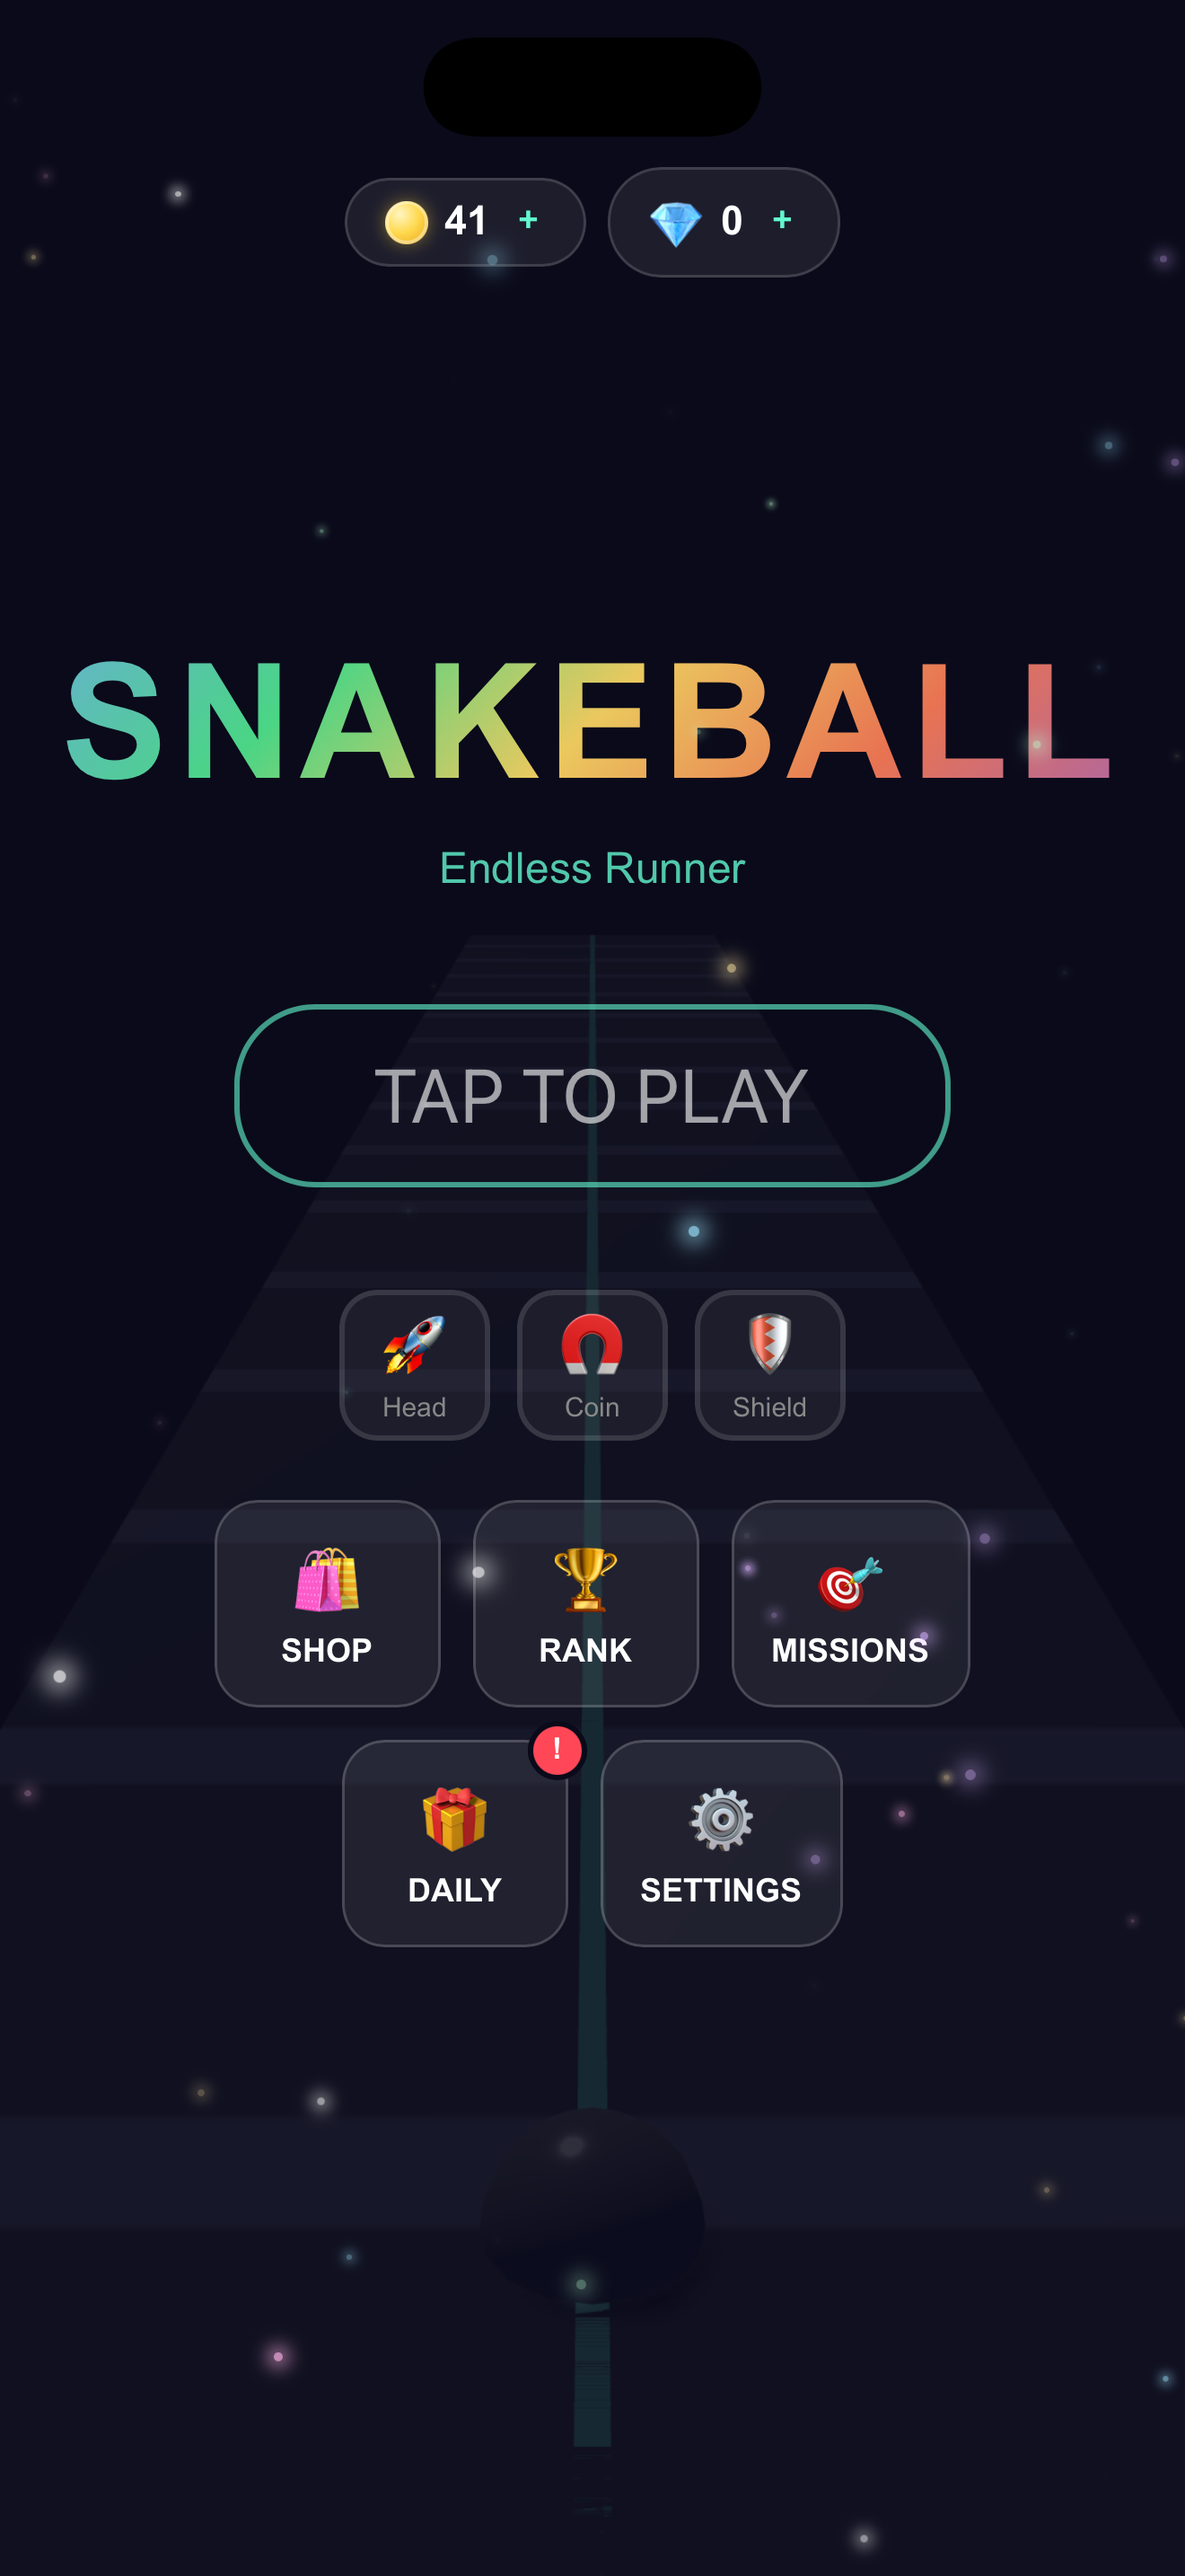
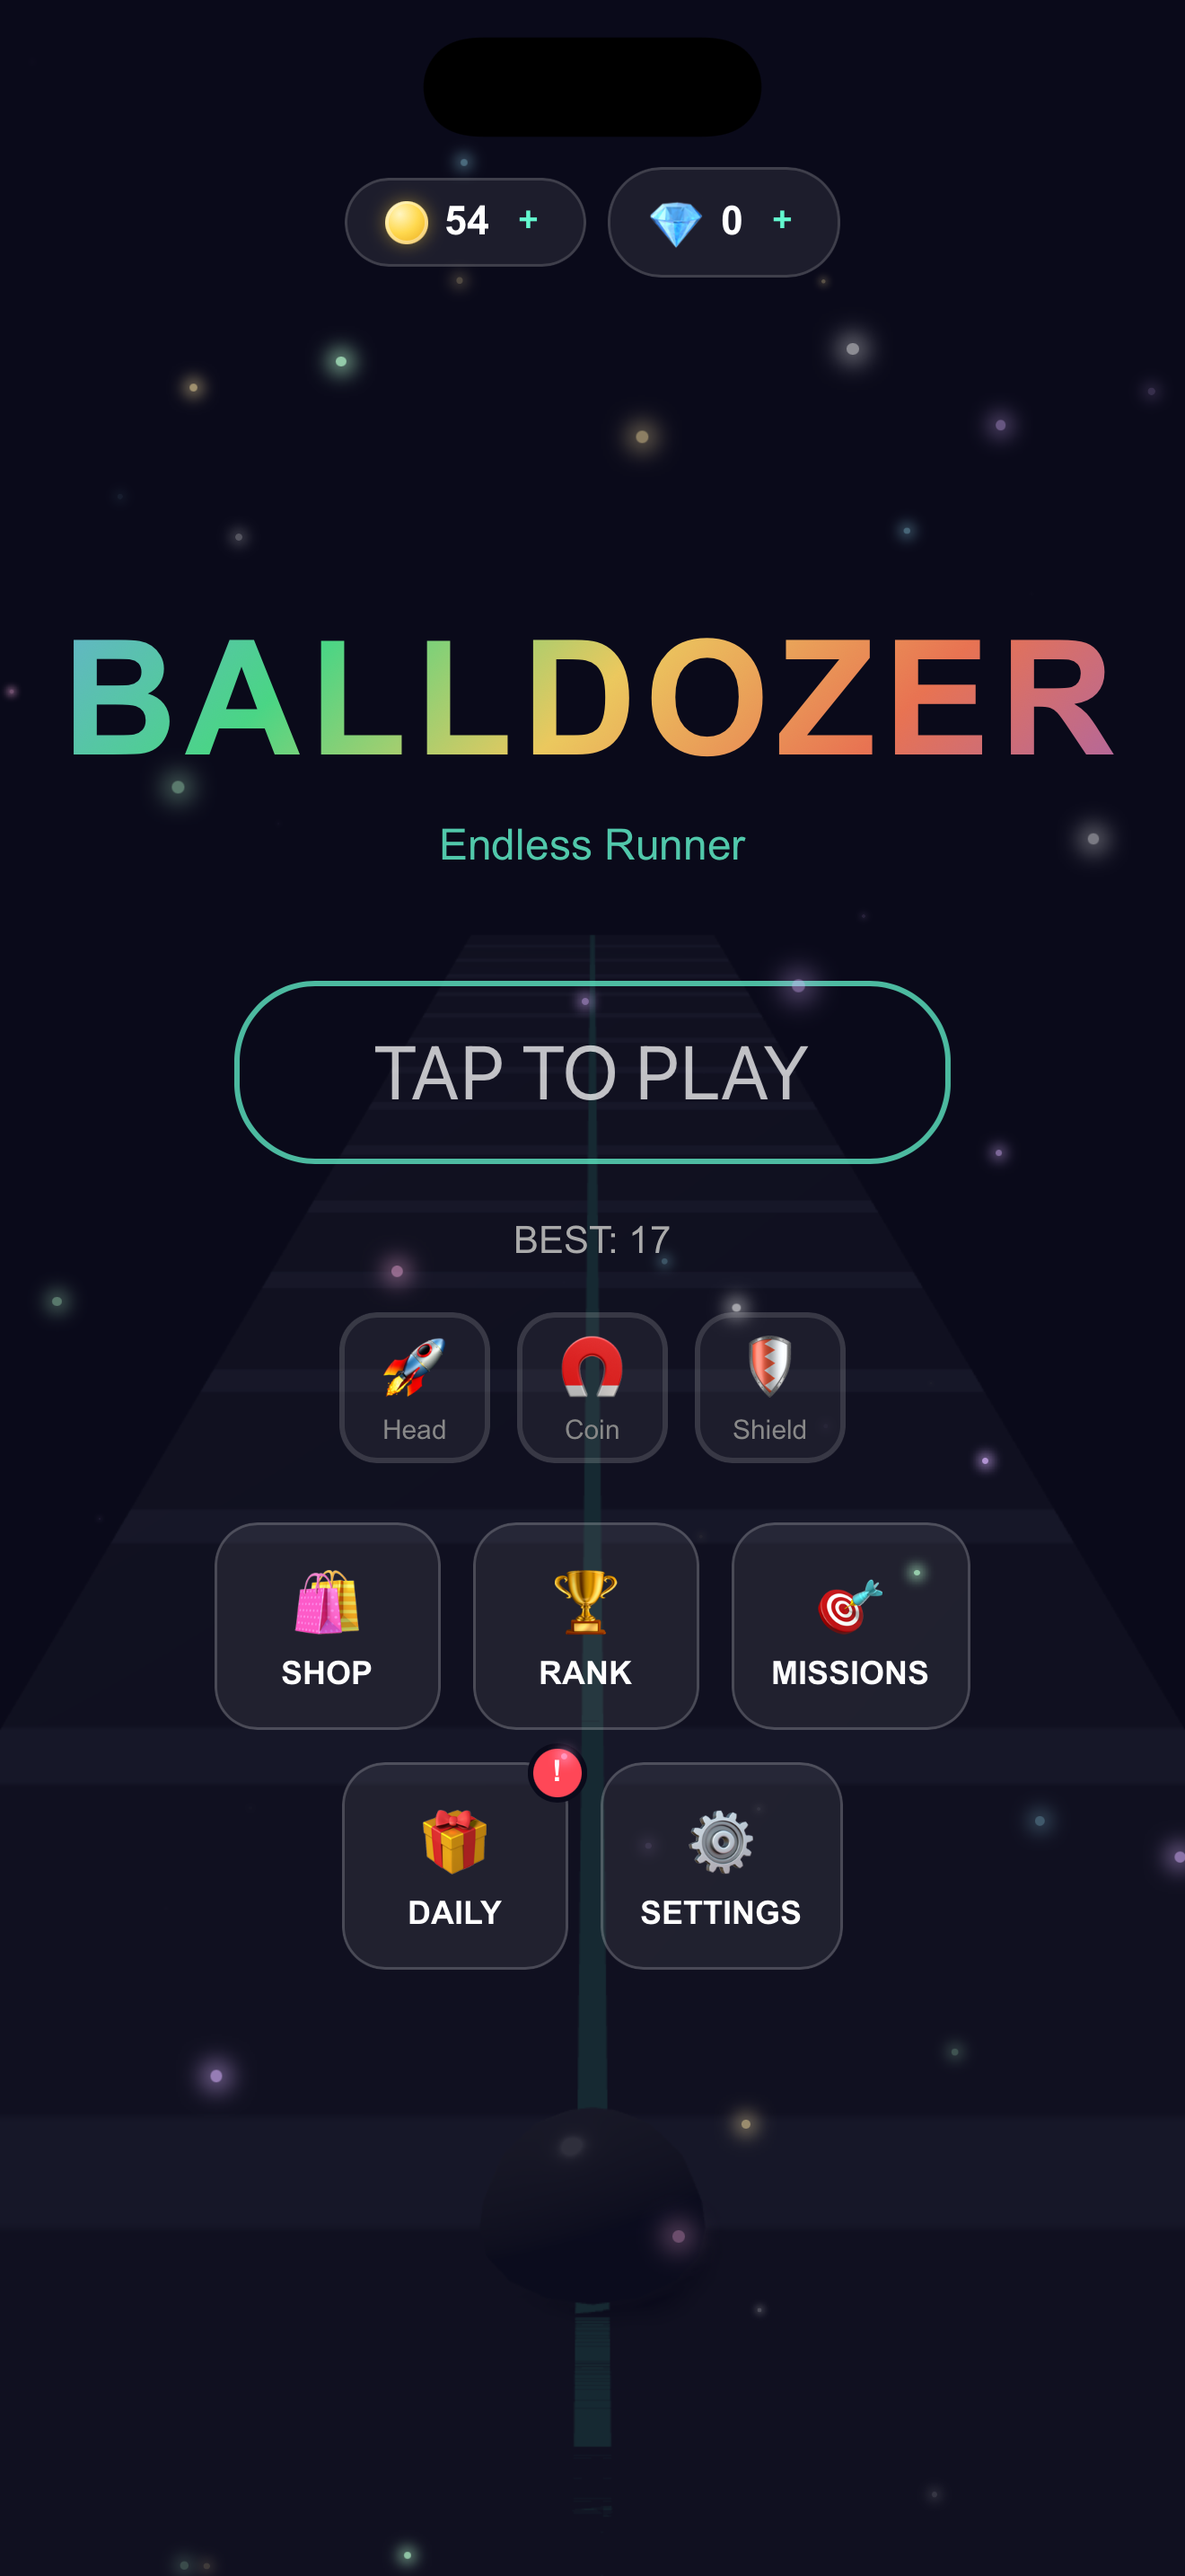
feat: 앱 이름 Snakeball → Balldozer 전면 반영
en Apple Name `Balldozer: Neon Ball Run` 이 App Store Connect 에 저장 확인됐다.
막혔던 원인은 남의 선점이 아니라 **자기 레코드**였다 — ASC 에 `볼도저` 앱 레코드가
Prepare for Submission 으로 이미 있었고 세션 캐시가 남아 자기 이름을 자기가 못 쓰는
상태였다. 완전히 로그아웃 후 재진입하니 통과.

코드 8곳:
  granite.config.ts  appName 'snakeball'→'balldozer' (Toss 슬러그) · displayName '볼도저'
  index.html         <title> · <h1>(메뉴 대문. 9자→9자라 nowrap 레이아웃 영향 없음)
  iOS                Info.plist CFBundleDisplayName/CFBundleName · WebView.swift 메일 제목
  Android            strings.xml app_name
  static/            terms.html · privacy.html 서비스명 10곳

**바꾸지 않은 것**: 번들 ID `studio.hodgepodge.snakeball`, Firebase 프로젝트
`snakeball-game`, 호스팅 URL. 유저에게 안 보이고 번들 ID 는 출시 후 변경 불가다.

스토어 문구 25곳(Snakeball/스네이크볼 전부) + Toss 앱 이름 자수 5→3 정정.
관문 [8] 을 "이름 미확정 경고" 검사에서 **"확정 이름이 9개 로케일에 일관되게 들어갔는지"**
로 교체했다 — 개명에서 가장 흔한 사고가 로케일 하나만 옛 이름으로 남는 것이다.
되돌림 2종(ja Name 만 옛 이름 / zh Play 이름 누락)으로 실제로 걸리는 걸 확인했다.
파서가 스토어 섹션을 기록하게 고쳐 Toss 판별 로직도 단순해졌다.

메뉴 스크린샷은 게임 화면에 이름이 찍히므로 재촬영했다(프로덕션 빌드, 한 판 플레이해
코인 54·BEST 17 상태). 촬영 중 뜬 시뮬레이터 Apple 계정 다이얼로그는 "지금 안 함" 으로
닫았다 — 암호는 입력하지 않았다. 스크린샷 40장 + Play 그래픽 4장 재생성, 규격 검증 통과.

diff --git a/static/privacy.html b/static/privacy.html
@@ -4,7 +4,7 @@
 <meta charset="utf-8">
 <meta name="viewport" content="width=device-width, initial-scale=1">
 <meta name="robots" content="noindex">
-<title>Snakeball — Privacy Policy</title>
+<title>Balldozer — Privacy Policy</title>
 <style>
   :root { color-scheme: dark light; }
   body { margin: 0; background: #0f0f1e; color: #e6e6f0; font-family: -apple-system, BlinkMacSystemFont, "Segoe UI", Roboto, sans-serif; line-height: 1.6; }
@@ -22,10 +22,10 @@
 </head>
 <body>
 <main>
-  <h1>Snakeball — Privacy Policy</h1>
+  <h1>Balldozer — Privacy Policy</h1>
   <p class="updated">Last updated: July 28, 2026</p>
 
-  <p>Snakeball (“the app”, “the game”) is developed and operated by <strong>Hodgepodge Studio</strong>
+  <p>Balldozer (“the app”, “the game”) is developed and operated by <strong>Hodgepodge Studio</strong>
   (“we”, “us”). This policy explains what data the game collects and how it is used. We collect only the
   minimum information needed to run the game. Questions:
   <a href="mailto:support@hodgepodge.studio">support@hodgepodge.studio</a>.</p>
@@ -59,7 +59,7 @@
   </ul>
 
   <h3>Tracking</h3>
-  <p><strong>We do not track you across other companies’ apps or websites.</strong> Snakeball does not
+  <p><strong>We do not track you across other companies’ apps or websites.</strong> Balldozer does not
   request App Tracking Transparency permission and does not use the iOS Advertising Identifier (IDFA); the
   app’s privacy manifest declares <code>NSPrivacyTracking = false</code>. Where ads are shown they are
   non-personalized. Ad and platform providers may still collect device and usage signals under their own
@@ -111,7 +111,7 @@
   <a href="mailto:support@hodgepodge.studio">support@hodgepodge.studio</a>. We respond within 30 days.</p>
 
   <h2>7. Children’s privacy</h2>
-  <p>Snakeball is a casual arcade game suitable for a general audience and is not directed at children under
+  <p>Balldozer is a casual arcade game suitable for a general audience and is not directed at children under
   13. It contains no chat or user-to-user messaging. We do not knowingly collect personally identifiable
   information from children under 13. If you believe a child has provided us with personal data, contact us
   and we will delete it.</p>

diff --git a/static/terms.html b/static/terms.html
@@ -4,7 +4,7 @@
 <meta charset="utf-8">
 <meta name="viewport" content="width=device-width, initial-scale=1">
 <meta name="robots" content="noindex">
-<title>Snakeball — Terms of Service</title>
+<title>Balldozer — Terms of Service</title>
 <style>
   :root { color-scheme: dark light; }
   body { margin: 0; background: #0f0f1e; color: #e6e6f0; font-family: -apple-system, BlinkMacSystemFont, "Segoe UI", Roboto, sans-serif; line-height: 1.6; }
@@ -20,10 +20,10 @@
 </head>
 <body>
 <main>
-  <h1>Snakeball — Terms of Service</h1>
+  <h1>Balldozer — Terms of Service</h1>
   <p class="updated">Last updated: July 28, 2026</p>
 
-  <p>These Terms of Service (“Terms”) govern your use of Snakeball (“the app”, “the game”), provided by
+  <p>These Terms of Service (“Terms”) govern your use of Balldozer (“the app”, “the game”), provided by
   <strong>Hodgepodge Studio</strong> (“we”, “us”). By downloading or playing the game you agree to these
   Terms. Contact: <a href="mailto:support@hodgepodge.studio">support@hodgepodge.studio</a>.</p>
 
@@ -45,7 +45,7 @@
   </ul>
 
   <h2>3. Your account &amp; progress</h2>
-  <p>Snakeball uses an anonymous account created automatically on first launch. Your progress, currencies,
+  <p>Balldozer uses an anonymous account created automatically on first launch. Your progress, currencies,
   and unlocks are stored on our servers and tied to that account.</p>
   <p>Settings → “Recovery Code” issues a code that transfers your account to another device. <strong>Keep it
   private — anyone who has it can claim your account.</strong> We cannot identify you without it, so if you
@@ -86,7 +86,7 @@
   <h2>6. Advertising</h2>
   <p>The game may show optional rewarded video ads (Google AdMob) that grant in-game rewards. Watching them
   is always your choice — the game is fully playable without them. Ad providers may collect device
-  identifiers and usage signals as described in their own privacy policies. Snakeball does not request
+  identifiers and usage signals as described in their own privacy policies. Balldozer does not request
   tracking permission, so ads are non-personalized. See our
   <a href="privacy.html">Privacy Policy</a>.</p>
 

diff --git a/index.html b/index.html
@@ -3,7 +3,7 @@
 <head>
 <meta charset="UTF-8">
 <meta name="viewport" content="width=device-width, initial-scale=1.0, user-scalable=no, viewport-fit=cover">
-<title>Snakeball</title>
+<title>Balldozer</title>
 <style>
 * { margin: 0; padding: 0; box-sizing: border-box;
     /* 게임 중 길게 누르면 텍스트/요소가 선택돼 파란 하이라이트가 뜨는 걸 방지 */
@@ -465,7 +465,7 @@ canvas { display: block; width: 100%; height: 100%; }
     </div>
 
     <div id="main-menu">
-        <h1>Snakeball</h1>
+        <h1>Balldozer</h1>
         <div class="subtitle">Endless Runner</div>
         <button id="tap-to-play">TAP TO PLAY</button>
         <div id="best-score-display"></div>

diff --git a/Mobile/iOS/Snakeball/WebView.swift b/Mobile/iOS/Snakeball/WebView.swift
@@ -168,7 +168,7 @@ struct WebView: UIViewRepresentable {
                         let mail = MFMailComposeViewController()
                         mail.mailComposeDelegate = self
                         mail.setToRecipients([to])
-                        mail.setSubject("Snakeball Support")
+                        mail.setSubject("Balldozer Support")
                         rootVC.present(mail, animated: true)
                     } else if let url = URL(string: "mailto:\(to)") {
                         UIApplication.shared.open(url)

diff --git a/granite.config.ts b/granite.config.ts
@@ -1,9 +1,9 @@
 import { defineConfig } from '@apps-in-toss/web-framework/config';
 
 export default defineConfig({
-  appName: 'snakeball',
+  appName: 'balldozer',
   brand: {
-    displayName: '스네이크볼',
+    displayName: '볼도저',
     primaryColor: '#63f8cf',
     // Toss requires an absolute, publicly-reachable icon URL. Replace with the
     // hosted app icon once the Firebase Hosting site is live.

diff --git a/LAUNCH.md b/LAUNCH.md
@@ -65,20 +65,21 @@
 
 ## 🔵 형이 해야 하는 것
 
-### A. 게임 제목 확정 ⚠ (먼저)
-- **후보와 근거는 [docs/app-name-candidates.md](docs/app-name-candidates.md) 로 옮겼다.**
-  1위 추천 `Cubeball / 큐브볼`.
-- ⚠ **`Balldozer` 단독은 ASC 에서 막혔다(2026-08-25)** — 미출시 앱이 이름을 예약 중.
-  스토어 검색에는 안 나오지만 저장이 거부된다. **공개 검색으로는 가용성을 확인할 수 없다.**
-  시도 순서와 대안은 [docs/app-name-candidates.md §7](docs/app-name-candidates.md).
-  → 우선 `Balldozer: Neon Ball Run` 로 재시도(전체 문자열이 다르면 대개 저장된다).
-- ~~Rolldozer~~ — 원어민 4명 전원이 문제 지적. 한국어 '롤'=LoL, `dozer`=코인푸셔(대만 11/14). 문서 §6.
-- ~~Numbash / 넘배시~~ — **탈락.** App Store 에 `NumBash: Math Run Battle`(2026-08-07,
-  Games, 러너 장르)이 우리가 노리는 4개 로케일 전부에 이미 등록돼 있다. 실측 근거는 위 문서 §2.
-- ~~Snakeball 유지~~ — 권하지 않음. 뱀 게임이 아닌데 '스네이크'로 유입되면 잘못된 설치가 된다.
-- **이게 먼저인 이유**: Toss 콘솔 슬러그(H)는 **등록 후 변경 불가**라 제목을 먼저 정해야 함. 스토어 표시명/아이콘에도 영향.
-- 정하면 내가 메뉴 타이틀·iOS/Android 표시명·`granite.config.ts` displayName에 반영.
-  **메뉴 타이틀이 스크린샷 5번에 찍혀 있어 그 한 장은 재촬영이 필요하다**(1~4번은 그대로).
+### A. 게임 제목 — ✅ 확정 (2026-08-25)
+
+**`Balldozer` / 볼도저 / Toss 슬러그 `balldozer`.**
+en Apple Name `Balldozer: Neon Ball Run` — **ASC 저장 확인됨.**
+
+> 한 번 거부됐다가 통과했다. 원인은 남의 선점이 아니라 **자기 레코드**였다 — ASC 에
+> `볼도저` 앱 레코드(Prepare for Submission)가 이미 있었고 세션 캐시가 남아 있었다.
+> 완전히 로그아웃 후 재진입하니 저장됨. 경위·교훈: [docs/app-name-candidates.md §7](docs/app-name-candidates.md) · LessonLearned `30 §14`.
+
+**반영 완료** — 코드 8곳(`granite.config.ts` appName/displayName, `index.html` title/h1,
+iOS `Info.plist` 2곳 + `WebView.swift`, Android `strings.xml`, `static/{terms,privacy}.html`),
+스토어 문구 9곳(`docs/store-listing.md`), 메뉴 스크린샷 재촬영 + 44장 재생성. 웹 배포됨.
+
+⚠ **Toss 슬러그 `balldozer` 는 아직 콘솔에 등록하지 않았다.** 등록 후 영구 불변이므로
+H 항목에서 선점 가능 여부부터 확인할 것.
 
 ### B. 앱 아이콘 — ✅ 완료 (2026-07-28, 2026-08-25 실측 재확인)
 형이 준 `docs/icon-src.png` 기준으로 3플랫폼 전부 반영·배포됨. **남은 액션 없음.**
